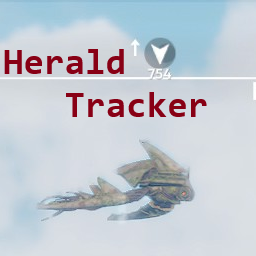
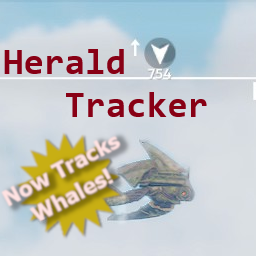
Herald Tracker v0.2.0

Changed region(s): [[0.0, 0.5, 0.5, 0.9375]]

diff --git a/HeraldTracker/patches/Tracker.cs b/HeraldTracker/patches/Tracker.cs
@@ -1,0 +1,67 @@
+using HarmonyLib;
+using UnityEngine.Localization;
+using Wildskies.UI.Hud;
+using UnityEngine;
+
+namespace HeraldTracker.Patches
+{
+    public class Tracker
+    {
+        public static CompassHud _compassHud;
+
+        static public void Notify(string message, Sprite icon = null)
+        {
+            NotificationHud notificationHud = UnityEngine.Object.FindFirstObjectByType<NotificationHud>();
+
+            if (notificationHud == null)
+            {
+                HeraldTrackerPlugin.log.LogWarning("Notify: NotificationHud not found.");
+                return;
+            }
+
+            if (_compassHud == null)
+            {
+                HeraldTrackerPlugin.log.LogWarning("Notify: CompassHud not found.");
+                return;
+            }
+
+            icon = icon ?? _compassHud._compassIconPrefab._pingIcon;
+            notificationHud.Show(new NotificationHudPayload(icon, new LocalizedString("General", "ok.label")).Cast<IPayload>());
+            notificationHud._currentNotification._message.text = message;
+        }
+
+        static public void Track(string name, Transform target)
+        {
+            if (_compassHud == null)
+            {
+                HeraldTrackerPlugin.log.LogWarning("Track: CompassHud not found.");
+                return;
+            }
+            _compassHud.OnPingPlaced(name, target);
+        }
+
+        static public void Untrack(Transform target)
+        {
+            if (_compassHud == null)
+            {
+                HeraldTrackerPlugin.log.LogWarning("Untrack: CompassHud not found.");
+                return;
+            }
+            _compassHud.OnPingCleared(target);
+        }
+
+        [HarmonyPostfix]
+        [HarmonyPatch(typeof(CompassHud), nameof(CompassHud.Start))]
+        static void CacheCompassHud(CompassHud __instance)
+        {
+            _compassHud = __instance;
+        }
+
+        [HarmonyPrefix]
+        [HarmonyPatch(typeof(CompassHud), nameof(CompassHud.OnDestroy))]
+        static void ClearCompassHud(CompassHud __instance)
+        {
+            _compassHud = null;
+        }
+    }
+}

diff --git a/HeraldTracker/Plugin.cs b/HeraldTracker/Plugin.cs
@@ -1,16 +1,25 @@
 using BepInEx;
 using BepInEx.Unity.IL2CPP;
 using HarmonyLib;
+using BepInEx.Logging;
 
 namespace HeraldTracker
 {
-    [BepInPlugin("org.kruft.plugins.heraldtracker", "Herald Tracker", "0.1.1")]
+    [BepInPlugin("kruft.heraldtracker", "Herald Tracker", "0.2.0")]
     public class HeraldTrackerPlugin : BasePlugin
     {
+        public static ManualLogSource log = Logger.CreateLogSource("Herald Tracker");
+        
         public override void Load()
         {
             Harmony harmony = new Harmony("kruft.HeraldTracker");
-            harmony.PatchAll(typeof(HeraldTrackerPatch));
+            harmony.PatchAll(typeof(Patches.Tracker));
+            
+            if (Config.Bind<bool>("General", "Herald_Tracking", true, "Whether to track the herald.").Value)
+                harmony.PatchAll(typeof(Patches.HeraldTracker));
+
+            if (Config.Bind<bool>("General", "Whale_Tracking", true, "Whether to track whales.").Value)
+                harmony.PatchAll(typeof(Patches.WhaleTracker));
         }
     }
 }

diff --git a/HeraldTracker/patches/WhaleTracker.cs b/HeraldTracker/patches/WhaleTracker.cs
@@ -1,0 +1,26 @@
+using HarmonyLib;
+using WildSkies.AI;
+
+namespace HeraldTracker.Patches
+{
+    class WhaleTracker
+    {
+        [HarmonyPostfix]
+        [HarmonyPatch(typeof(SkyWhaleCritter), nameof(SkyWhaleCritter.Init))]
+        static void AddWhaleToCompass(SkyWhaleCritter __instance)
+        {
+            Tracker.Track(__instance.name, __instance.transform);
+            Tracker.Notify("A whale has been spotted!");
+            HeraldTrackerPlugin.log.LogInfo("Added whale to compass.");
+        }
+
+        [HarmonyPrefix]
+        [HarmonyPatch(typeof(SkyWhaleCritter), nameof(SkyWhaleCritter.OnDisable))]
+        static void RemoveWhaleFromCompass(SkyWhaleCritter __instance)
+        {
+            Tracker.Untrack(__instance.transform);
+            Tracker.Notify("The whale slips into the clouds...");
+            HeraldTrackerPlugin.log.LogInfo("Removed whale from compass.");
+        }
+    }
+}

diff --git a/HeraldTracker/patches/HeraldTracker.cs b/HeraldTracker/patches/HeraldTracker.cs
@@ -1,15 +1,15 @@
 using HarmonyLib;
-using Wildskies.UI.Hud;
 
-namespace HeraldTracker
+namespace HeraldTracker.Patches
 {
-    class HeraldTrackerPatch
+    class HeraldTracker
     {
         [HarmonyPostfix]
         [HarmonyPatch(typeof(HeraldMovementController), "Start")]
         static void AddHeraldToCompass(HeraldMovementController __instance)
         {
-            UnityEngine.Object.FindFirstObjectByType<CompassHud>().OnPingPlaced("HeraldTracker", __instance.gameObject.transform);
+            Tracker.Track("HeraldTracker", __instance.gameObject.transform);
+            HeraldTrackerPlugin.log.LogInfo("Added Herald to compass.");
         }
     }
 }

diff --git a/HeraldTracker/README.md b/HeraldTracker/README.md
@@ -2,6 +2,10 @@
 
 Adds a "Ping" icon to the Compass HUD at the location of the Herald.
 
+Now tracks whales! Will display a notification when a whale has been added or removed from the compass. The whales can be quite shy! Sometimes they don't spawn for quite awhile.  
+
+Whale and/or Herald tracking can be disabled in the config file `kruft.heraldtracker.cfg`, located in the `BepInEx/config` folder.  
+
 [Lost Skies Discord](https://discord.gg/QWtTAnbvqz)  
 [Lost Skies Modding Server](https://discord.gg/zVXAPcHqDV)  
 

diff --git a/HeraldTracker/bundle/CHANGELOG.md b/HeraldTracker/bundle/CHANGELOG.md
@@ -1,4 +1,9 @@
 ### Changelog
 
+##### 0.2.0
+- Whale Tracking
+- Notification Support
+- Added config file
+
 ##### 0.1.0
 - Initial Release
